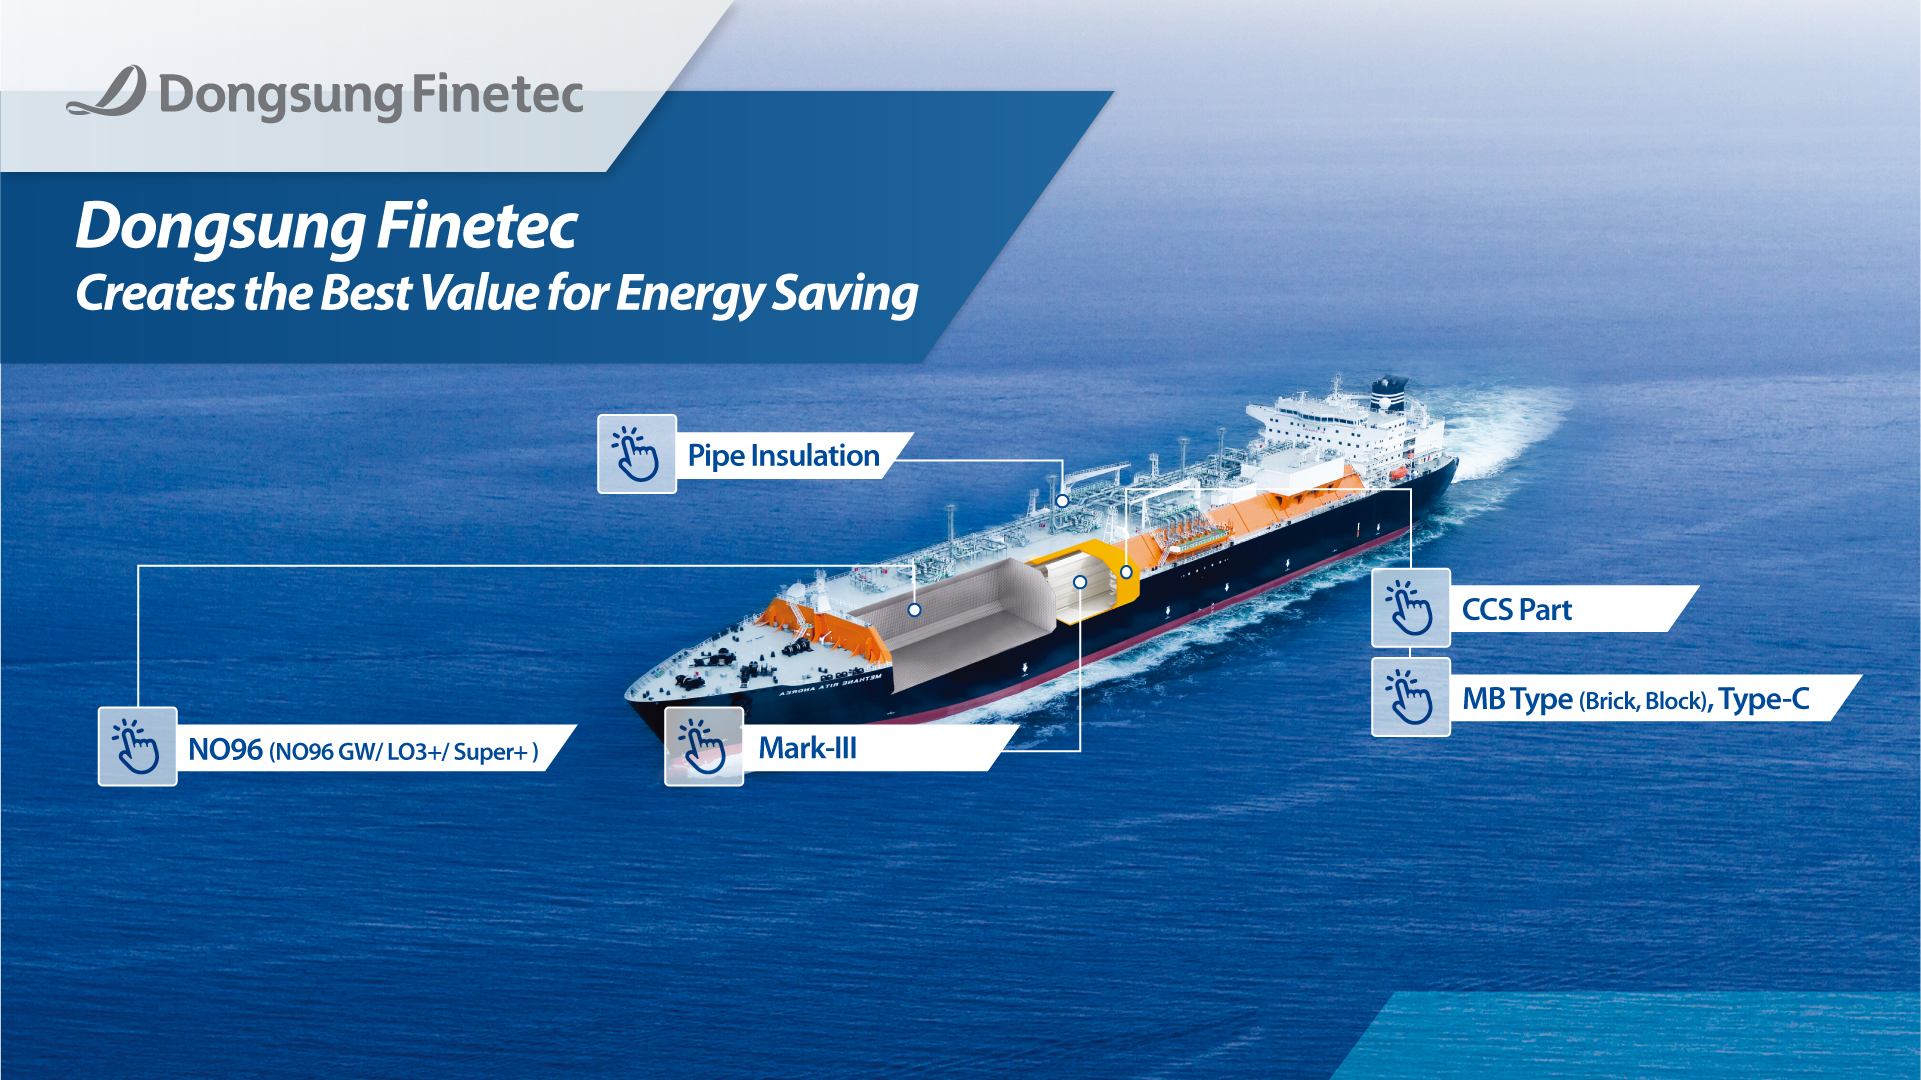
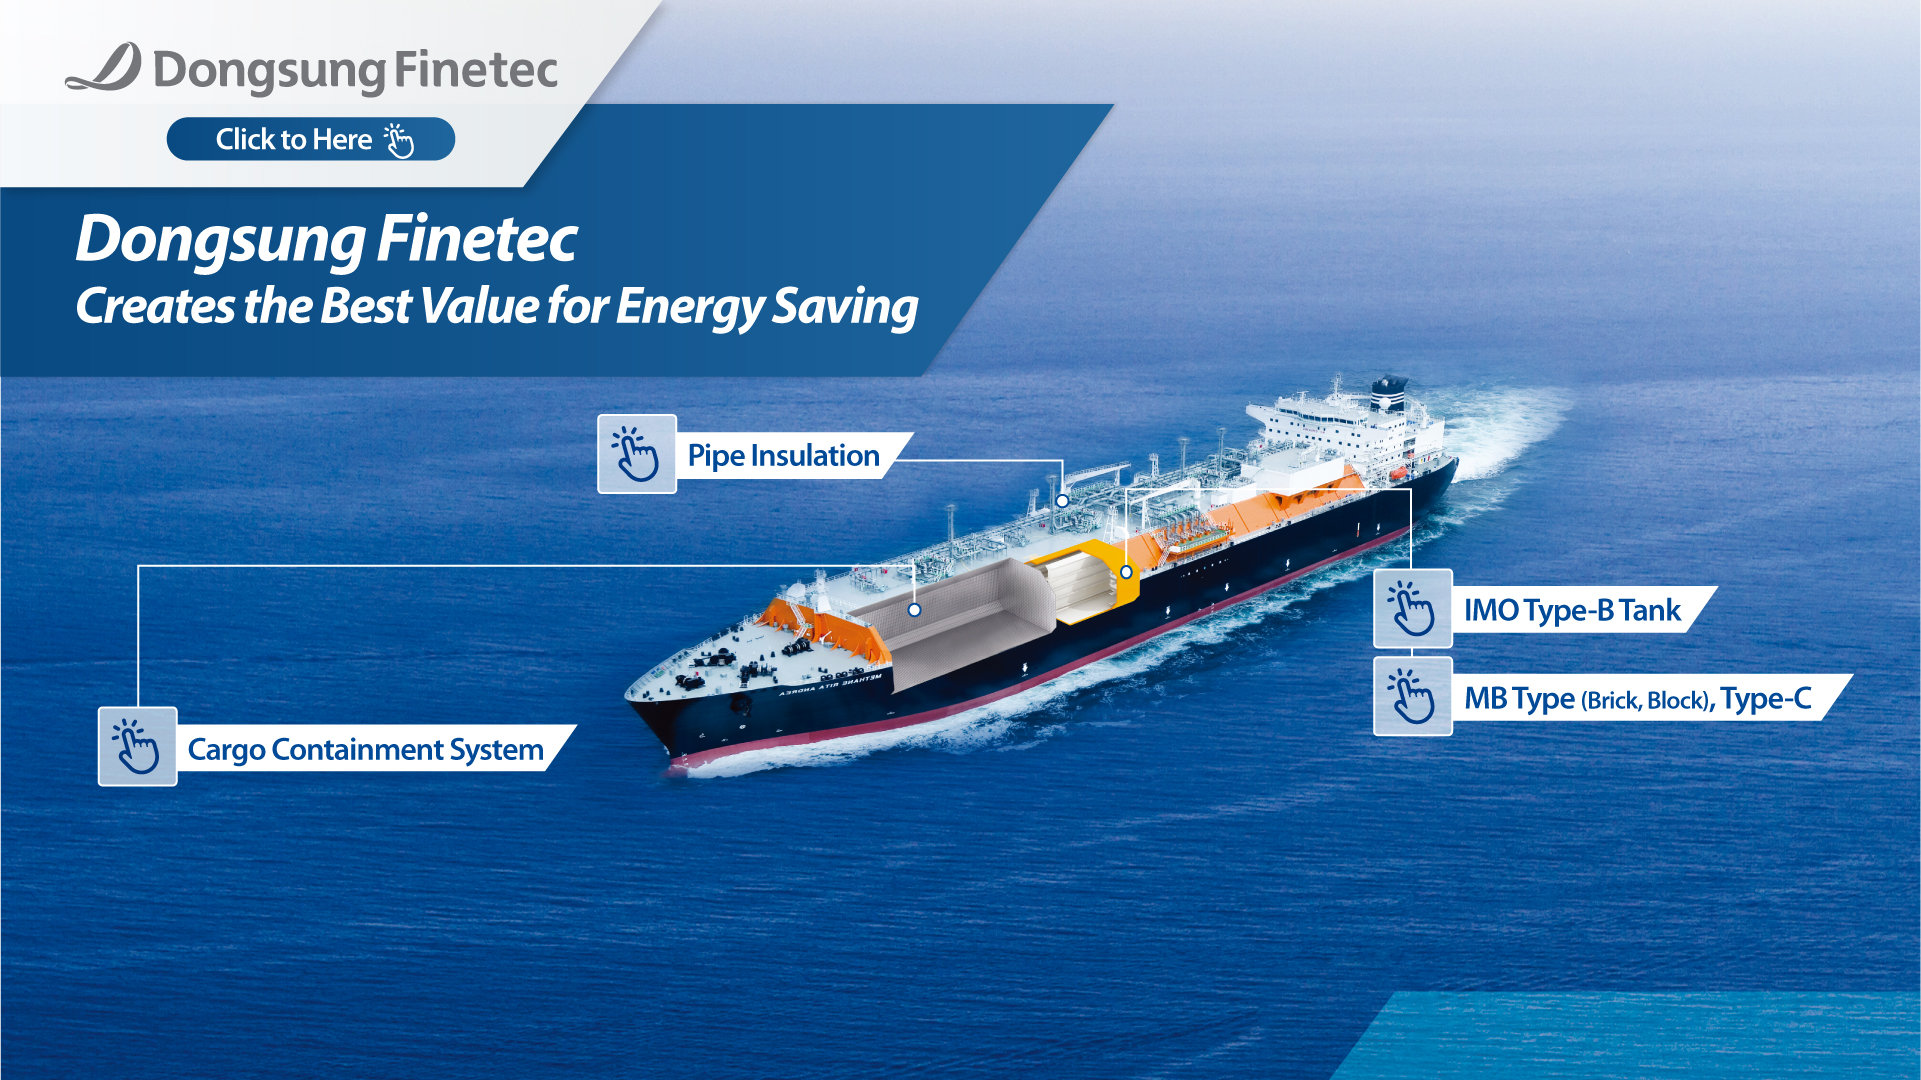
Heather_Updatedver3

diff --git a/main2.html b/main2.html
@@ -51,11 +51,11 @@ $(window).on('load',function() {
     <image class='BagroundImg2' source src="02-1.jpg" usemap=#01>
 
 <map name="01">
-  <area shape="rect" alt="no96" title="" coords="96,704,572,780" href="https://heather-0.github.io/ds/sub_no96" target="" />
-  <area shape="rect" alt="pipe" title="" coords="596,412,912,492" href="https://heather-0.github.io/ds/sub_pipeinsulation" target="" />
-  <area shape="rect" alt="mark3" title="" coords="664,706,1016,784" href="https://heather-0.github.io/ds/sub_mark" target="" />
-  <area shape="rect" alt="ccs" title="" coords="1370,566,1702,644" href="https://heather-0.github.io/ds/sub_ccs" target="" />
-  <area shape="rect" alt="mbtype" title="" coords="1372,660,1862,734" href="https://heather-0.github.io/ds/sub_mptype" target="" />
+    <area shape="rect" alt="company" title="" coords="164,112,448,160" href="sub_company.html" target="_self" />
+    <area shape="rect" alt="Cargo" title="" coords="96,700,576,784" href="sub_cargo1.html" target="_self" />
+    <area shape="rect" alt="Pipe" title="" coords="596,412,908,492" href="sub_pipeinsulation.html" target="_self" />
+    <area shape="rect" alt="IMO" title="" coords="1372,560,1744,644" href="sub_IMO.html" target="_self" />
+    <area shape="rect" alt="MBtype" title="" coords="1372,656,1844,732" href="sub_mptype.html" target="_self" />
 
   <!-- Created by Online Image Map Editor (http://www.maschek.hu/imagemap/index) -->
 </map>

diff --git a/sub_company.html b/sub_company.html
@@ -5,7 +5,7 @@
     <meta charset="UTF-8">
     <meta http-equiv="X-UA-Compatible" content="IE=edge">
     <meta name="viewport" content="width=device-width, initial-scale=1.0">
-    <title>CCS Part</title>
+    <title>About Dongsung Fintec</title>
 
 </head>
 
@@ -14,15 +14,11 @@
     <div id="wrap">
     <div class="container pc">
 
-  <image class='BagroundImg' source src="https://github.com/heather-0/ds/blob/main/pop04_ccs.jpg?raw=true" useMap=#Map1 width="100%" border=0></td></tr>
-
+  <image class='BagroundImg' source src="company.jpg" useMap=#Map1 width="100%" border=0></td></tr>
 
   <map name="Map1">
-  <area shape="rect" alt="" title="" coords="1524,56,1852,140" href="javascript:history.back()" target="" /></map>
-
+  <area shape="rect" alt="" title="" coords="8,4,1904,1068" href="javascript:history.back()" target="_self" /></map>
 
 </body>
-
-
 
 </html>

diff --git a/sub_cargo2.html b/sub_cargo2.html
@@ -1,0 +1,23 @@
+<!DOCTYPE html>
+<html lang="en">
+
+<head>
+    <meta charset="UTF-8">
+    <meta http-equiv="X-UA-Compatible" content="IE=edge">
+    <meta name="viewport" content="width=device-width, initial-scale=1.0">
+    <title>Cargo Containment System</title>
+
+</head>
+
+<body style="margin:0px">
+
+  <img style="display: block;" alt="" src="pop_cargo2.jpg" useMap=#Map1 width="100%" border=0></td></tr>
+
+  <map name="Map1">
+      <area shape="rect" alt="next" title="" coords="1804,644,1880,816" href="sub_cargo3.html" target="_self" /></map>
+      <area shape="rect" alt="back" title="" coords="44,656,112,800" href="sub_cargo1.html" target="_self" /></map>
+      <area shape="rect" alt="main" title="" coords="1524,56,1852,140" href="main2.html" target="_self" /></map>
+
+</body>
+
+</html>

diff --git a/sub_cargo1.html b/sub_cargo1.html
@@ -1,0 +1,23 @@
+<!DOCTYPE html>
+<html lang="en">
+
+<head>
+    <meta charset="UTF-8">
+    <meta http-equiv="X-UA-Compatible" content="IE=edge">
+    <meta name="viewport" content="width=device-width, initial-scale=1.0">
+    <title>Cargo Containment System</title>
+
+</head>
+
+<body style="margin:0px">
+
+  <img style="display: block;" alt="" src="pop_cargo1.jpg" useMap=#Map1 width="100%" border=0></td></tr>
+
+  <map name="Map1">
+      <area shape="rect" alt="next" title="" coords="1804,644,1880,816" href="sub_cargo2.html" target="_self" /></map>
+      <area shape="rect" alt="main" title="" coords="1524,56,1852,140" href="main2.html" target="_self" /></map>
+
+
+</body>
+
+</html>

diff --git a/sub_cargo3.html b/sub_cargo3.html
@@ -1,0 +1,22 @@
+<!DOCTYPE html>
+<html lang="en">
+
+<head>
+    <meta charset="UTF-8">
+    <meta http-equiv="X-UA-Compatible" content="IE=edge">
+    <meta name="viewport" content="width=device-width, initial-scale=1.0">
+    <title>Cargo Containment System</title>
+
+</head>
+
+<body style="margin:0px">
+
+  <img style="display: block;" alt="" src="pop_cargo3.jpg" useMap=#Map1 width="100%" border=0></td></tr>
+
+  <map name="Map1">
+      <area shape="rect" alt="main" title="" coords="1524,56,1852,140" href="main2.html" target="_self" /></map>
+      <area shape="rect" alt="back" title="" coords="44,656,112,800" href="sub_cargo2.html" target="_self" /></map>
+
+</body>
+
+</html>

diff --git a/sub_IMO.html b/sub_IMO.html
@@ -5,20 +5,18 @@
     <meta charset="UTF-8">
     <meta http-equiv="X-UA-Compatible" content="IE=edge">
     <meta name="viewport" content="width=device-width, initial-scale=1.0">
-    <title>Pipe Insulation</title>
+    <title>IMO Type-B Tank</title>
 
 </head>
 
 <body style="margin:0px">
 
-  <img style="display: block;" alt="" src="pop02_pipe.jpg" useMap=#Map1 width="100%" border=0></td></tr>
+  <img style="display: block;" alt="" src="pop01_IMO.jpg" useMap=#Map1 width="100%" border=0></td></tr>
 
   <map name="Map1">
   <area shape="rect" alt="" title="" coords="1524,56,1852,140" href="javascript:history.back()" target="_self" /></map>
 
 
 </body>
-
-
 
 </html>

diff --git a/sub_mptype.html b/sub_mptype.html
@@ -11,14 +11,11 @@
 
 <body style="margin:0px">
 
-  <img style="display: block;" alt="" src="https://github.com/heather-0/ds/blob/main/pop03_mbtype.jpg?raw=true" useMap=#Map1 width="100%" border=0></td></tr>
-
+  <img style="display: block;" alt="" src="pop03_mbtype.jpg" useMap=#Map1 width="100%" border=0></td></tr>
 
   <map name="Map1">
-  <area shape="rect" alt="" title="" coords="1524,56,1852,140" href="javascript:history.back()" target="" /></map>
+  <area shape="rect" alt="" title="" coords="1524,56,1852,140" href="javascript:history.back()" target="_self" /></map>
 
 </body>
-
-
 
 </html>
